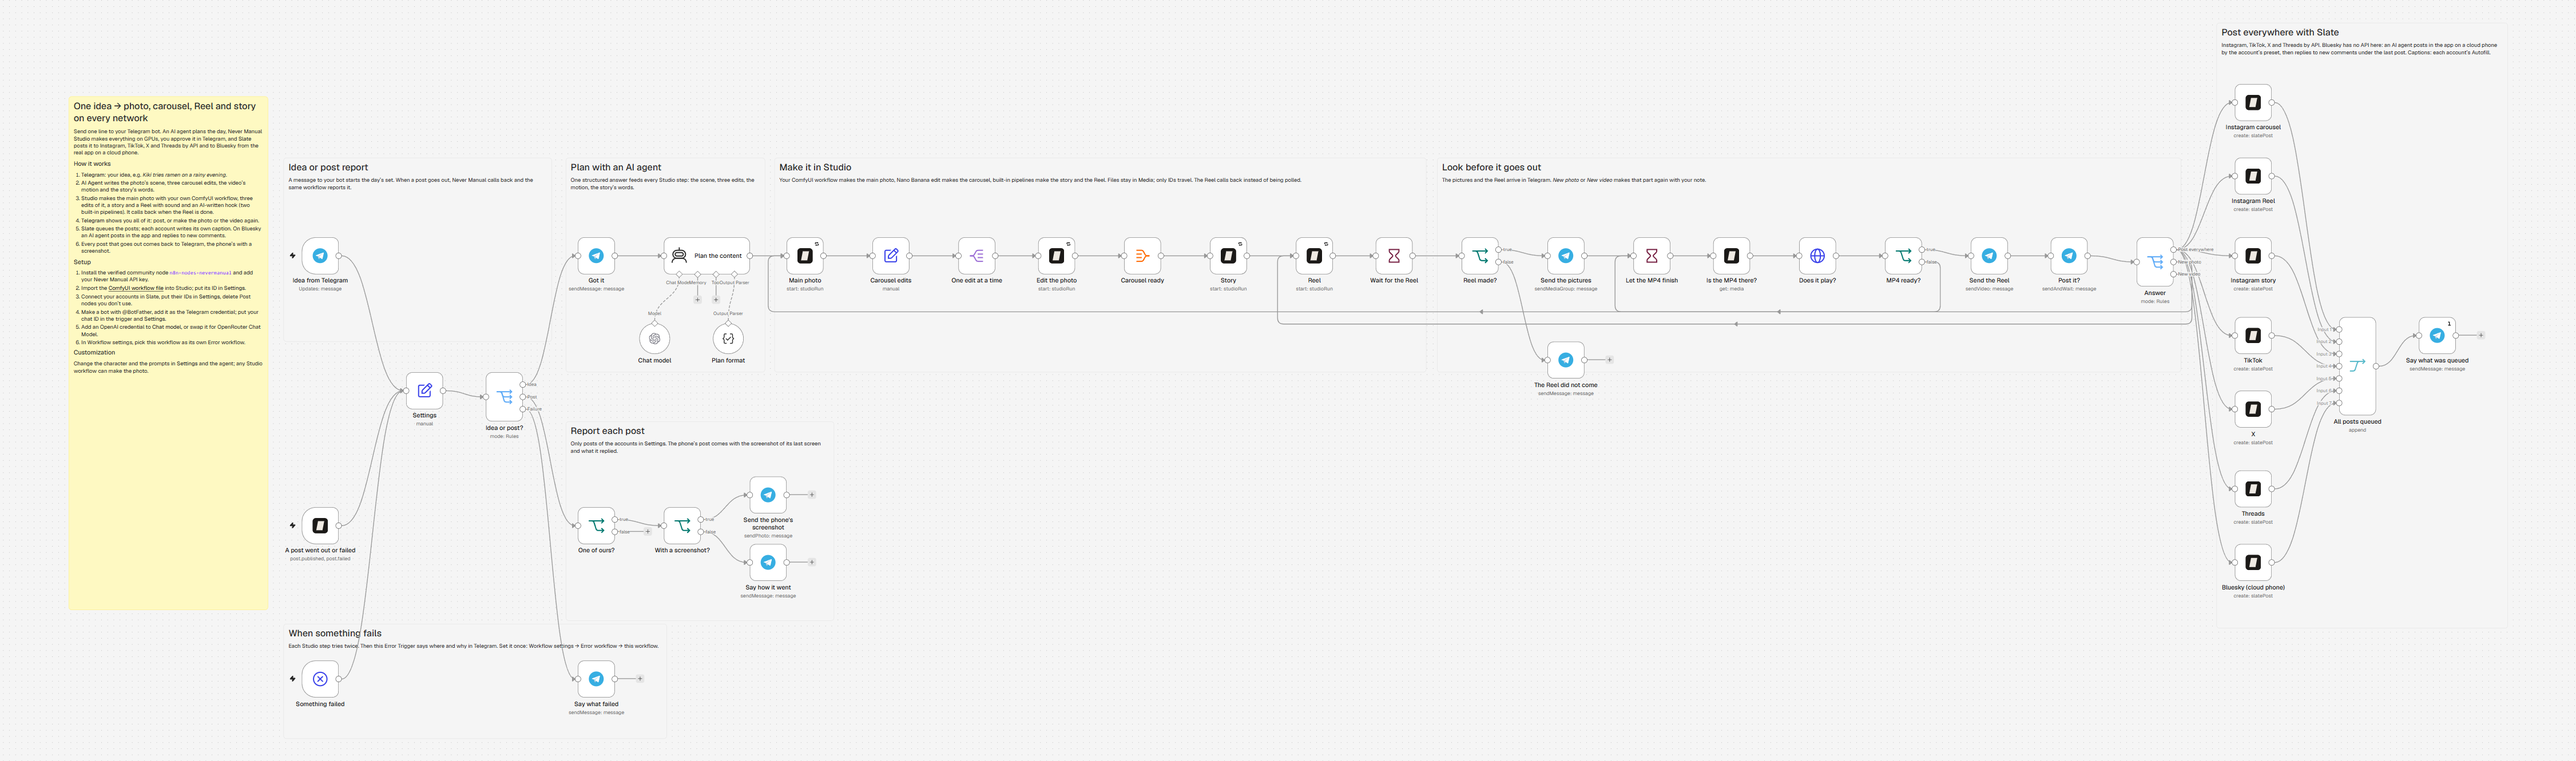
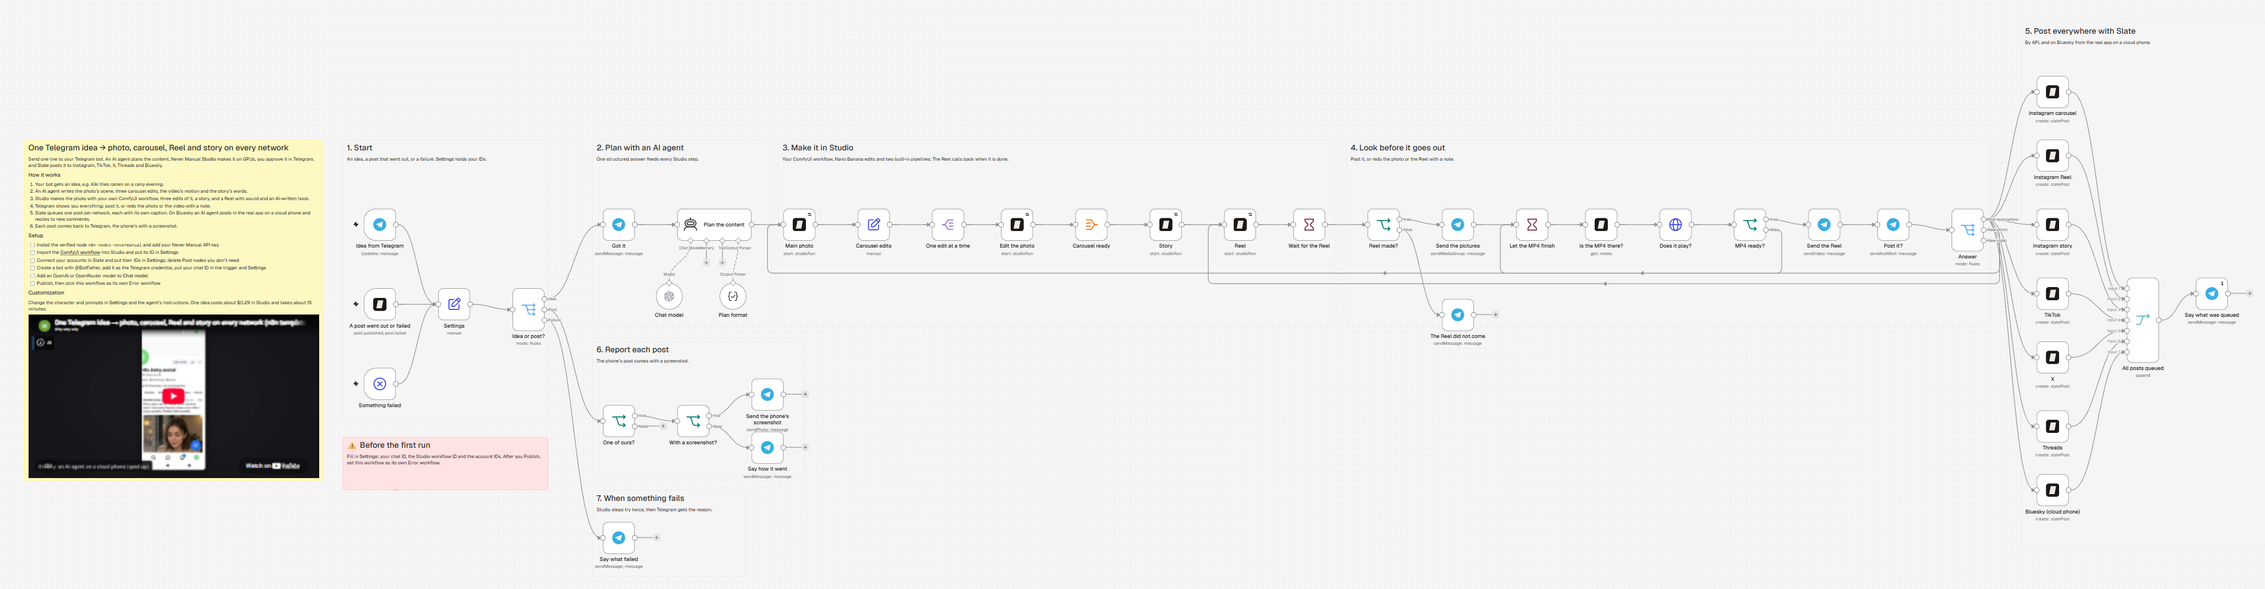
Template 2: notes by n8n's guidelines, setup video
Sticky notes redone by n8n's Visual guidelines: a wide main note with Setup as checkboxes, numbered section notes, a red note for what must be filled before the first run. The setup video (https://youtu.be/oBbdvOPdc-0) is embedded in the main note and linked from the README. New canvas image.

diff --git a/templates/one-idea-everywhere/README.md b/templates/one-idea-everywhere/README.md
@@ -5,6 +5,8 @@ made, approved by you in Telegram and posted everywhere.
 
 ![The workflow](workflow.png)
 
+**Video:** [a live run and the setup in under 4 minutes](https://youtu.be/oBbdvOPdc-0)
+
 ## What it does
 
 1. **Telegram**: you send an idea, e.g. *Kiki finds a tiny ramen bar on a rainy evening*.
